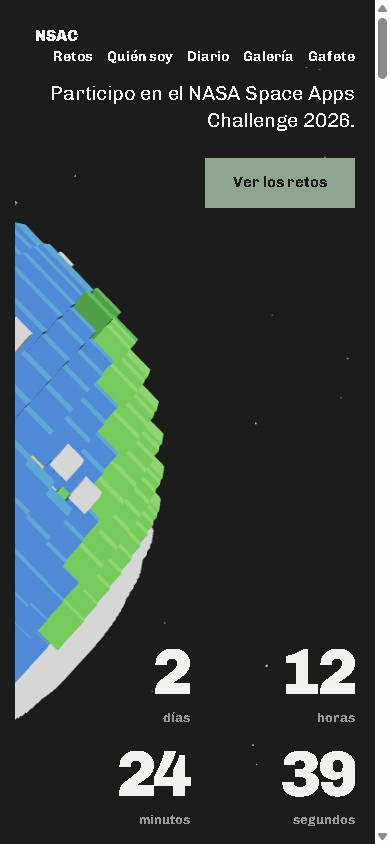
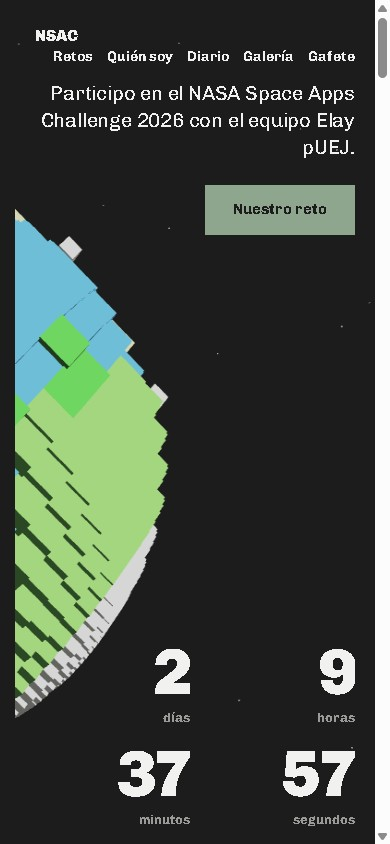
portada: equipo elay puej y reto field shift marcado en la home
Generated with [Devin](https://devin.ai)

diff --git a/index.html b/index.html
@@ -3,8 +3,8 @@
 <head>
 <meta charset="utf-8">
 <meta name="viewport" content="width=device-width, initial-scale=1.0">
-<title>NSAC — NASA Space Apps Challenge 2026 | Alejandro Sosa</title>
-<meta name="description" content="Participo en el NASA Space Apps Challenge 2026 desde Santa Cruz de la Sierra. Faltan 2 días y 12 horas para el inicio: sábado 14 de noviembre, 9:00 en Bolivia. Cuenta regresiva en vivo, los 14 retos oficiales y el diario del hackathon.">
+<title>Elay pUEJ — NASA Space Apps Challenge 2026 | Alejandro Sosa</title>
+<meta name="description" content="Participo en el NASA Space Apps Challenge 2026 desde Santa Cruz de la Sierra con el equipo Elay pUEJ y el reto Field Shift. Faltan 2 días y 10 horas para el inicio: sábado 14 de noviembre, 9:00 en Bolivia. Cuenta regresiva en vivo y diario del hackathon.">
 <meta name="author" content="Alejandro Sosa Briceño">
 <meta name="robots" content="index, follow, max-image-preview:large">
 <link rel="canonical" href="https://asosab.github.io/NSAC/">
@@ -12,8 +12,8 @@
 <!-- Open Graph -->
 <meta property="og:type" content="website">
 <meta property="og:site_name" content="NSAC — NASA Space Apps 2026">
-<meta property="og:title" content="NSAC — NASA Space Apps Challenge 2026">
-<meta property="og:description" content="Faltan 2 días y 12 horas para el hackathon más grande del mundo: empieza el sábado 14 de noviembre a las 9:00 (hora de Bolivia). Cuenta regresiva en vivo, los 14 retos oficiales y el diario del evento.">
+<meta property="og:title" content="Elay pUEJ — NASA Space Apps Challenge 2026">
+<meta property="og:description" content="Faltan 2 días y 10 horas para el hackathon más grande del mundo: sábado 14 de noviembre a las 9:00 (hora de Bolivia). Equipo Elay pUEJ, reto Field Shift, cuenta regresiva en vivo y diario del evento.">
 <meta property="og:url" content="https://asosab.github.io/NSAC/">
 <meta property="og:image" content="https://asosab.github.io/NSAC/assets/img/og-cover.jpg">
 <meta property="og:image:width" content="390">
@@ -25,8 +25,8 @@
 <meta name="twitter:card" content="summary_large_image">
 <meta name="twitter:site" content="@asosab">
 <meta name="twitter:creator" content="@asosab">
-<meta name="twitter:title" content="NSAC — NASA Space Apps Challenge 2026">
-<meta name="twitter:description" content="Faltan 2 días y 12 horas: empieza el sábado 14 a las 9:00, hora de Bolivia. Cuenta regresiva en vivo, los 14 retos oficiales y el diario del hackathon.">
+<meta name="twitter:title" content="Elay pUEJ — NASA Space Apps Challenge 2026">
+<meta name="twitter:description" content="Faltan 2 días y 10 horas: sábado 14 a las 9:00, hora de Bolivia. Equipo Elay pUEJ, reto Field Shift, cuenta regresiva en vivo y diario del hackathon.">
 <meta name="twitter:image" content="https://asosab.github.io/NSAC/assets/img/og-cover.jpg">
 <meta name="twitter:image:alt" content="Planeta Tierra de bloques estilo Minecraft a la izquierda y cuenta regresiva gigante a la derecha.">
 
@@ -93,7 +93,7 @@
     },
     {
       "@type": "WebSite",
-      "name": "NSAC — NASA Space Apps Challenge 2026",
+      "name": "Elay pUEJ — NASA Space Apps Challenge 2026",
       "url": "https://asosab.github.io/NSAC/",
       "inLanguage": "es",
       "author": {
@@ -130,8 +130,8 @@
 
 <section class="hero">
   <div class="hero__top">
-    <p class="hero__claim" id="claim">Participo en el NASA Space Apps Challenge 2026.</p>
-    <a class="btn" href="#retos">Ver los retos</a>
+    <p class="hero__claim" id="claim">Participo en el NASA Space Apps Challenge 2026 con el equipo Elay pUEJ.</p>
+    <a class="btn" href="#reto-elegido">Nuestro reto</a>
   </div>
 
   <!-- taste-skill-ignore: la cuenta regresiva es contenido real, no numeración decorativa -->
@@ -154,8 +154,8 @@
     <h2 class="h2">El hackathon</h2>
     <p class="intro__first">El NASA Space Apps Challenge es el hackathon más grande del mundo. Miles de equipos en casi todos los países dedican un fin de semana a resolver problemas reales con datos abiertos de la NASA.</p>
     <p>Este año corre el sábado 14 y el domingo 15 de noviembre. La ventana para entregar proyectos abre a las 9:00 del sábado y cierra a las 23:59 del domingo, siempre en hora local.</p>
-    <p>Los equipos pueden tener hasta seis personas. Todavía no tengo reto elegido: quiero armar equipo primero y decidirlo juntos.</p>
-    <p>Mientras llega el día, esta página hace la cuenta. Cuando arranque, el proceso se contará <a href="diario/">en el diario</a>.</p>
+    <p>Los equipos pueden tener hasta seis personas. El mío es «<a href="https://www.spaceappschallenge.org/2026/find-a-team/elay-puej/" target="_blank" rel="noopener">Elay pUEJ</a>», de Santa Cruz, y el reto es «<a href="https://www.spaceappschallenge.org/2026/challenges/adapting-farms-with-nasa-data/" target="_blank" rel="noopener">Field Shift</a>»: datos de la NASA cruzados con el suelo de cada granja para probar rotaciones de cultivo. Por ahora estoy solo; busco artistas, diseñadores y gente que conozca el campo.</p>
+    <p>Mientras llega el día, esta página hace la cuenta. El proceso se cuenta <a href="diario/">en el diario</a>.</p>
 
     <div class="intro__audio">
       <p class="intro__audio-label">Se cuenta mejor en un episodio del podcast:</p>
@@ -188,9 +188,10 @@
         </div>
       </article>
 
-      <article class="reto">
+      <article class="reto reto--elegido" id="reto-elegido">
         <img class="reto__img" src="assets/img/retos/granjas.jpg" alt="La agricultora Denise Moyle en sus campos de alfalfa en Nevada." width="128" height="128" loading="lazy">
         <div class="reto__body">
+          <p class="reto__tag">Nuestro reto</p>
           <p class="reto__line"><a class="reto__name" href="https://www.spaceappschallenge.org/2026/challenges/adapting-farms-with-nasa-data/" target="_blank" rel="noopener">Field Shift</a><span class="reto__nivel">Avanzado · Intermedio</span></p>
           <p class="reto__desc">Herramienta de apoyo a la decisión que cruza observaciones de la NASA con el suelo y las prioridades del agricultor para explorar rotaciones.</p>
           <p class="reto__temas">Arte y multimedia · Ciencia de la Tierra · Software</p>
@@ -338,6 +339,8 @@
       <p><span class="fact__k">Nombre</span><span class="fact__v">Alejandro Sosa</span></p>
       <p><span class="fact__k">Base</span><span class="fact__v">Santa Cruz de la Sierra, Bolivia</span></p>
       <p><span class="fact__k">Oficio</span><span class="fact__v">Software y producto</span></p>
+      <p><span class="fact__k">Equipo</span><span class="fact__v"><a href="https://www.spaceappschallenge.org/2026/find-a-team/elay-puej/" target="_blank" rel="noopener">Elay pUEJ</a></span></p>
+      <p><span class="fact__k">Reto</span><span class="fact__v"><a href="https://www.spaceappschallenge.org/2026/challenges/adapting-farms-with-nasa-data/" target="_blank" rel="noopener">Field Shift</a></span></p>
     </div>
     <p class="about__p">Llevo años construyendo cosas con código: un bot que monitorea inmuebles, landings para podcasts, un call center ciudadano que atendió más de 50.000 casos en dos años. Ahora quiero ver qué sale de dos días seguidos con datos de la NASA.</p>
   </div>

diff --git a/assets/js/planet.js b/assets/js/planet.js
@@ -94,11 +94,11 @@
 
     if (estado === "live") {
       liveMsg.hidden = false;
-      claim.textContent = "El hackathon corre hasta el domingo 15 a las 23:59.";
+      claim.textContent = "Elay pUEJ corre hasta el domingo 15 a las 23:59.";
     } else if (estado === "done") {
       liveMsg.hidden = false;
       liveMsg.textContent = "Misión cumplida.";
-      claim.textContent = "El hackathon terminó. El resultado está en el diario.";
+      claim.textContent = "Elay pUEJ ya entregó. El resultado está en el diario.";
     }
   }
   tick();

diff --git a/assets/css/main.css b/assets/css/main.css
@@ -296,7 +296,24 @@ main, .top, .footer { position: relative; z-index: 1; }
 
 .reto { display: flex; gap: 20px; }
 
+.reto--elegido {
+  border-left: 3px solid var(--accent);
+  padding-left: 17px;
+}
+
 .reto__body { min-width: 0; }
+
+.reto__tag {
+  display: inline-block;
+  background: var(--accent);
+  color: var(--accent-ink);
+  font-size: var(--step-small);
+  font-weight: 700;
+  letter-spacing: 0.04em;
+  text-transform: uppercase;
+  padding: 2px 8px;
+  margin-bottom: 8px;
+}
 
 .reto__img {
   width: 128px;

diff --git a/docs/log/2026-11-11.md b/docs/log/2026-11-11.md
@@ -94,6 +94,32 @@ tags: [log]
   en `D:/empresas/Statetty/desarrollo`). Descriptions de `index.html`
   pasadas a «2 días y 15 horas».
 
+## Portada: equipo y reto en la página principal
+
+- Pedido: los textos de `index.html` pasan a tiempo presente con equipo
+  y reto ya definidos (el usuario confirmó: equipo «Elay pUEJ», reto
+  «Field Shift», página del equipo en
+  spaceappschallenge.org/2026/find-a-team/elay-puej/).
+- Hero: claim ahora «Participo … con el equipo Elay pUEJ»; el botón
+  «Ver los retos» es «Nuestro reto» y apunta al ancla `#reto-elegido`.
+- Intro: se reemplaza «todavía no tengo reto elegido» por la presentación
+  del equipo y del reto (ambos enlazados), y «cuando arranque, el proceso
+  se contará» por «el proceso se cuenta» (presente, el diario ya existe).
+- Retos: la tarjeta de Field Shift lleva `reto--elegido` + `id="reto-elegido"`,
+  borde izquierdo salvia y chip «NUESTRO RETO» (`.reto__tag`, acento sobre
+  tinta, estilo consistente con `.btn`).
+- Quién soy: filas nuevas de hechos «Equipo» y «Reto», ambas enlazadas.
+- `planet.js`: los claims de las fases live/done también nombran al equipo
+  («Elay pUEJ corre hasta…» / «Elay pUEJ ya entregó.»).
+- SEO: `<title>`, `og:title`, `twitter:title` y el `name` del WebSite en
+  JSON-LD pasan a «Elay pUEJ — NASA Space Apps Challenge 2026»;
+  descriptions actualizadas a «2 días y 10 horas» y con equipo + reto.
+- `og-cover.jpg` e `imagen/nsac.jpg` regenerados (390×844, Playwright MCP
+  sobre `python -m http.server` en el puerto 8642; la captura cae en
+  `D:/empresas/Statetty/desarrollo`, verificada: planeta izquierda,
+  cuenta legible derecha).
+- `acm-align.png` sigue suelto y sin trackear; no se commitea.
+
 ## Herramienta: gafete doble cara en hoja carta
 
 - Pedido: servicio para los participantes de Santa Cruz — subir una o
